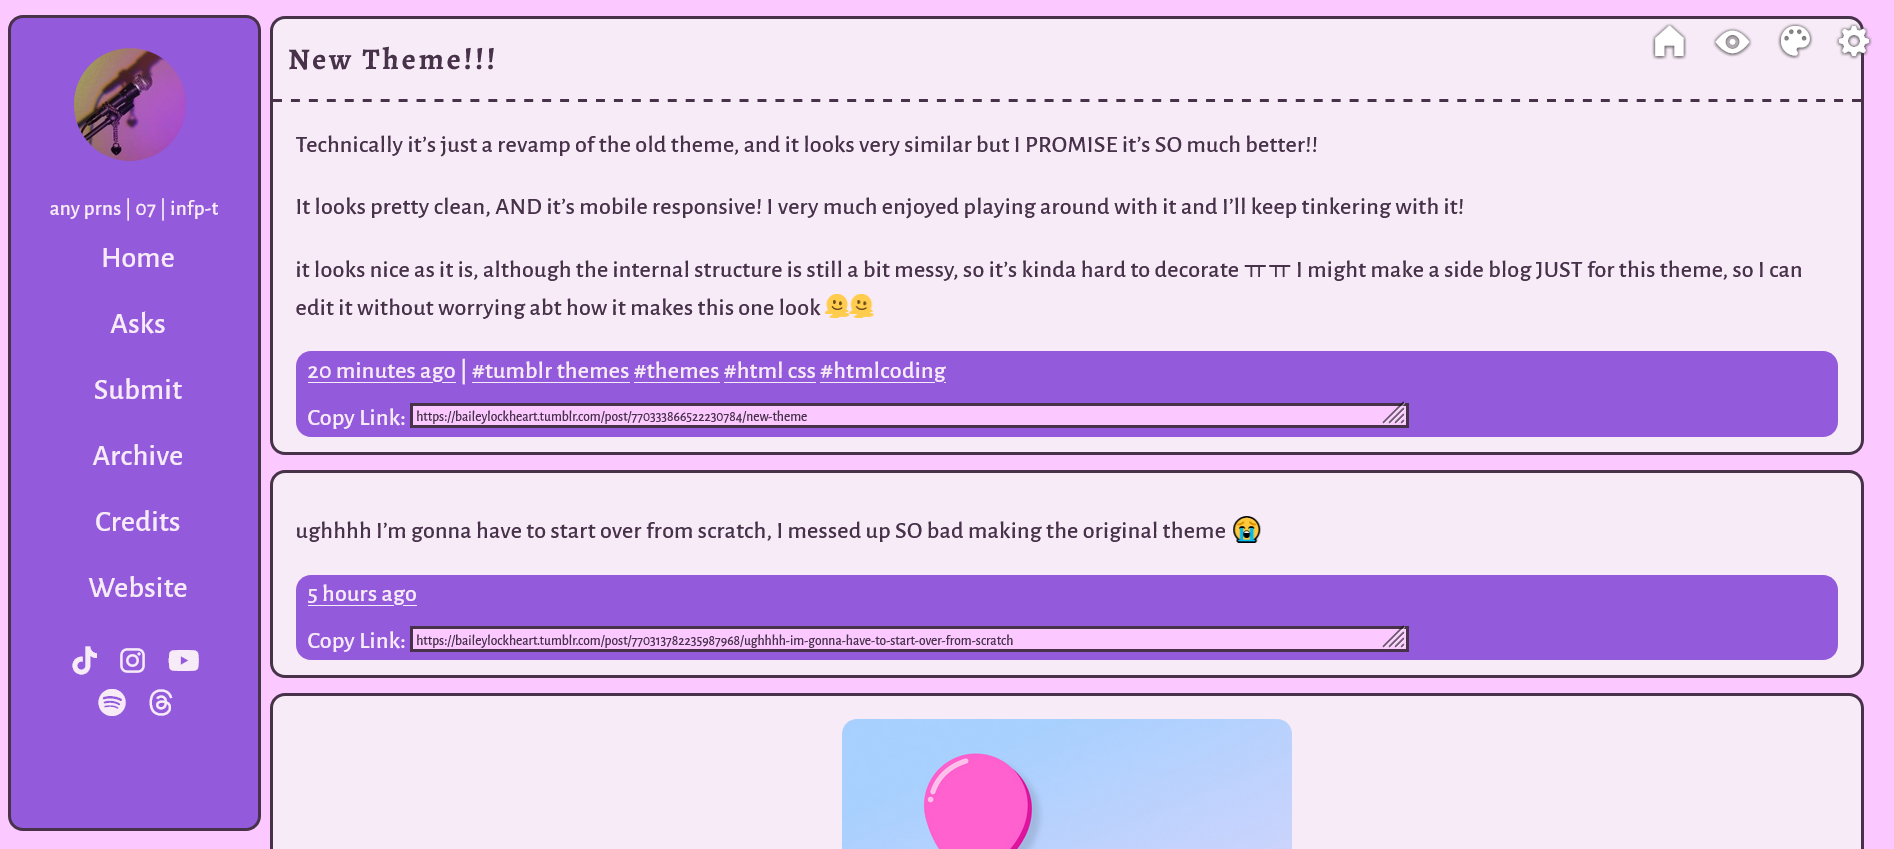
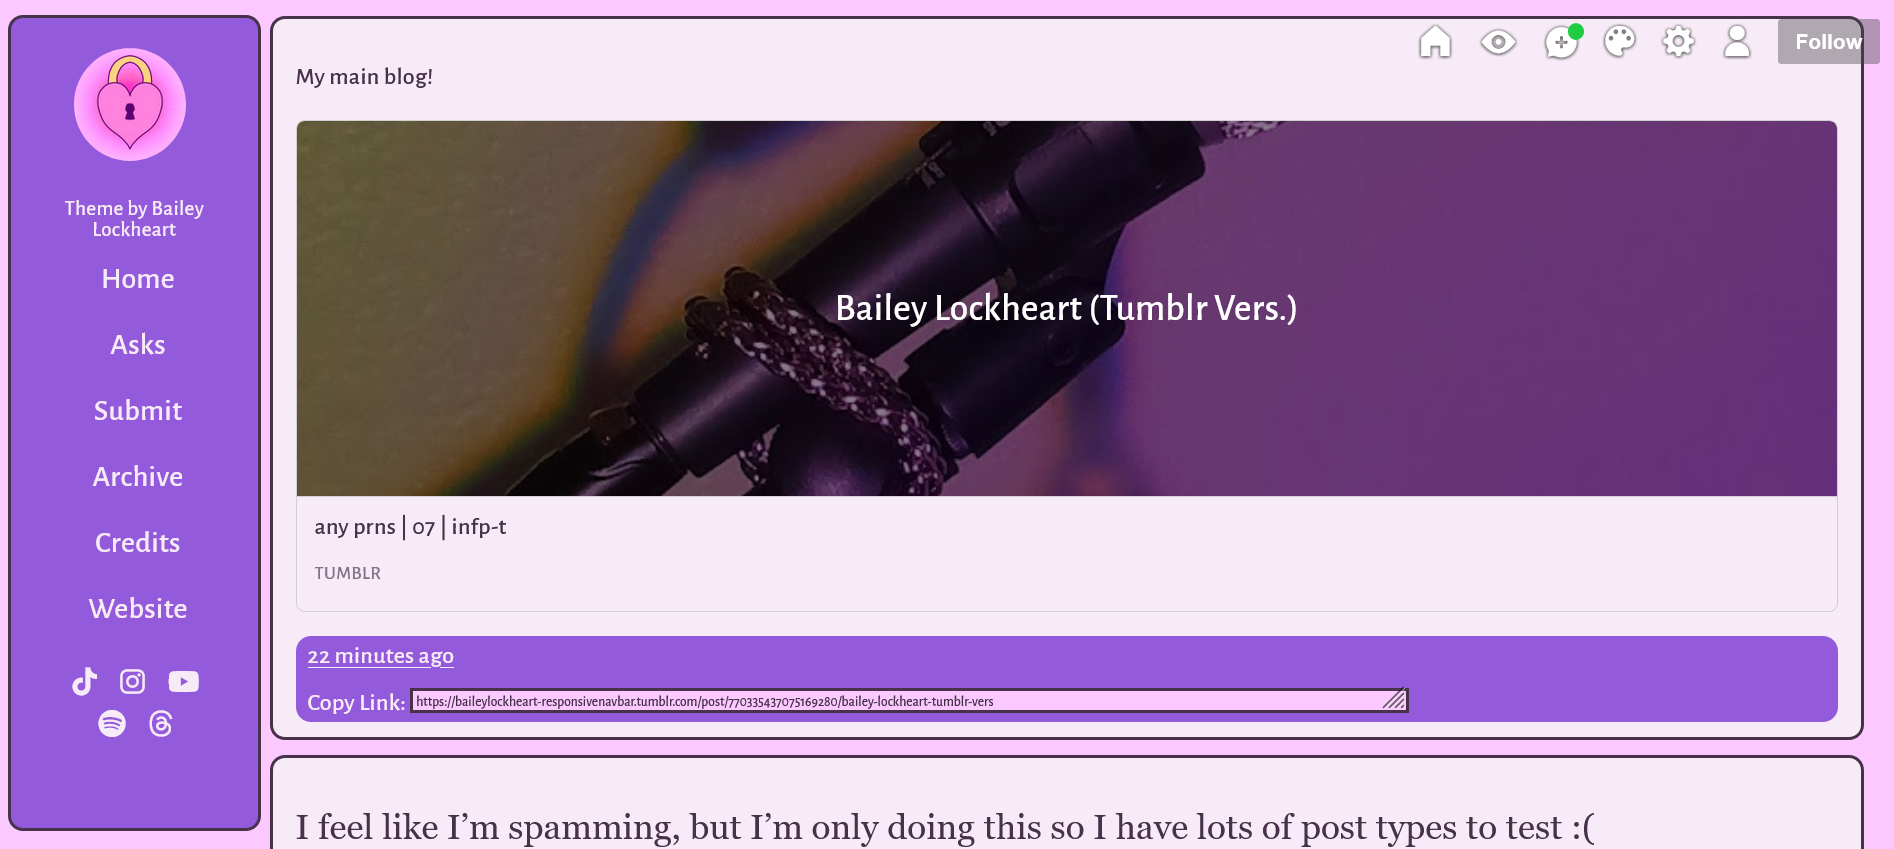
Add files via upload

diff --git a/index.html b/index.html
@@ -166,7 +166,7 @@
         <p>Occasionally Updated · 2024</p>
     </div>
     <div class="entry">
-        <h2>&#9888; <a href="https://baileylockheart.tumblr.com" target="_blank">Tumblr Blog &rarr;</a></h2>
+        <h2>&#9888; <a href="https://baileylockheart-responsivenavbar.tumblr.com" target="_blank">Tumblr Theme &rarr;</a></h2>
         <p>Tumblr theme I made!</p>
         <img src="/images/tumblr.png">
         <p>Ocassionally Updated · 2023 · <a href="https://github.com/baileylockheart/tumblr-theme" target="_blank">Github Repo</a></p>
